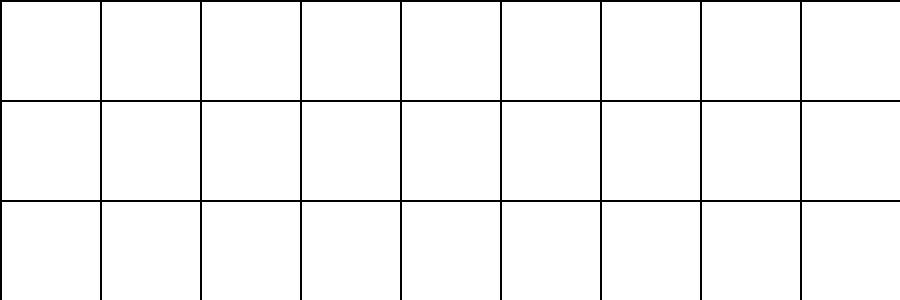
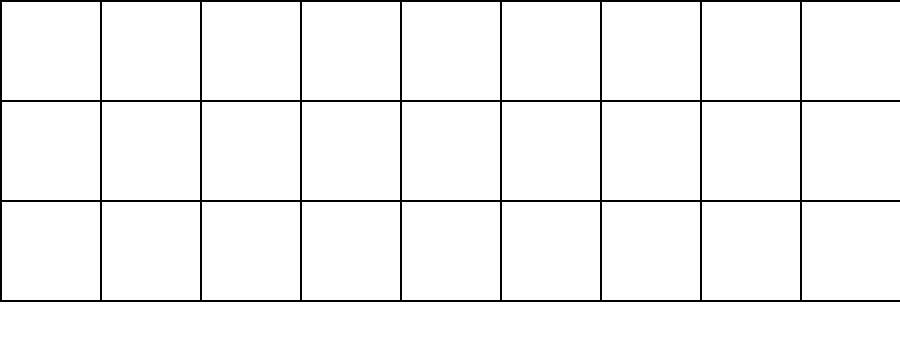
now the program generates a single image containing all the boards

diff --git a/src/GeneraTabelle.py b/src/GeneraTabelle.py
@@ -1,16 +1,22 @@
-from random import random, randint
+from random import randint
 from PIL import Image, ImageDraw, ImageFont
 import os
 import os.path
 import shutil
 import subprocess
+import time
+from datetime import datetime
 
 WIDTH = 900
 HEIGHT = 300
+OFFSET_Y = 50
+V_LINES_NUM = 9
+H_LINES_NUM = 3
 CELL_WIDTH = WIDTH/9
 CELL_HEIGHT = HEIGHT/3
-FONT_SIZE = 40
-IMG_OUT_NAME = "Tabella_"
+FONT_SIZE = 30
+SMALLER_FONT_SIZE = 20
+IMG_OUT_NAME = "Tabelle"
 OUT_PATH = f"{os.path.abspath(os.path.curdir)}{os.path.sep}images_out{os.path.sep}"
 
 def PrintTabella(tabella: list) -> None:
@@ -33,21 +39,189 @@ def PickNumber(lowerRange: int, upperRange: int, alreadyRolled: set) -> int:
 
 def main() -> None:
     '''Main function'''
+    playerName = input("Nome del giocatore: ")
 
-
-    num_to_generate = 0
+    # reading how many boards the user wants to buy
+    numToGenerate = 0
     while 1:
-        num_to_generate_input = input("Quante tabelle si vogliono generare?(min: 1, max: 9): ")
+        num_to_generate_input = input("Quante tabelle si vogliono comprare?(min: 1, max: 9): ")
         if len(num_to_generate_input) < 2 and ord(num_to_generate_input) >= 49 and ord(num_to_generate_input) <= 57:
-            num_to_generate = int(num_to_generate_input)
+            numToGenerate = int(num_to_generate_input)
             break
         else:
             print("Input non valido. Inserire un numero intero compreso tra 1 e 9.")
 
-    shutil.rmtree(OUT_PATH)
+    #reading the boards number
+    tabelle = []
+    for _ in range(numToGenerate):
+        n = 0
+        while 1:
+            gotError = False
+            userInput = input("Numero della cartella che si vuole acquistare: ")
+            try:
+                n = int(userInput)
+            except Exception:
+                # checking that the user inputted a number
+                print("Inserire un numero intero!")
+                gotError = True
+            if not gotError: 
+                # checking that the user inputted a number between 1 and 90
+                if n > 0 and n <= 90:
+                    if n in tabelle:
+                        print(f"Tabella #{n} già presa!")
+                    else:
+                        break
+                else:
+                    print("Inserire un numero intero compreso tra 1 e 90!")
+        tabelle.append(n)
+
+    today = datetime.now()
+    formattedToday = today.strftime("%d/%m/%Y %H:%M")
+
+    if(os.path.isdir(OUT_PATH)):
+        shutil.rmtree(OUT_PATH)
+
     os.mkdir(OUT_PATH)
 
-    for num in range(num_to_generate):
+    tabelleGenerate = []
+    for num in range(numToGenerate):
+        tabella = [[0 for _ in range(9)] for _ in range(3)]
+        alreadyRolled = set()
+        for i in range(3):
+            spots = [0 for _ in range(9)]
+            chosenSpots = set()
+            # generate the random spots in the current row
+            for _ in range(5):
+                while True:
+                    spot = randint(0, 8)
+                    if spot not in chosenSpots: break
+                spots[spot] = 1
+                chosenSpots.add(spot)
+            
+            # if the spot is set with 1, pick the number to put in the tabella
+            if spots[0] == 1:
+                tabella[i][0] = PickNumber(1, 9, alreadyRolled)
+            if spots[1] == 1:
+                tabella[i][1] = PickNumber(10, 19, alreadyRolled)
+            if spots[2] == 1:
+                tabella[i][2] = PickNumber(20, 29, alreadyRolled)
+            if spots[3] == 1:
+                tabella[i][3] = PickNumber(30, 39, alreadyRolled)
+            if spots[4] == 1:
+                tabella[i][4] = PickNumber(40, 49, alreadyRolled)
+            if spots[5] == 1:
+                tabella[i][5] = PickNumber(50, 59, alreadyRolled)
+            if spots[6] == 1:
+                tabella[i][6] = PickNumber(60, 69, alreadyRolled)
+            if spots[7] == 1:
+                tabella[i][7] = PickNumber(70, 79, alreadyRolled)
+            if spots[8] == 1:
+                tabella[i][8] = PickNumber(80, 90, alreadyRolled)
+
+        # check if the board number is in the board
+        found = False
+        col = tabelle[num] // 10
+        for i in range(3):
+            if col == 9: col = col - 1
+            if tabella[i][col] == tabelle[num]:
+                found = True
+                break
+        
+        # if it's not in the board, forcefully add it
+        if not found:
+            randRow = randint(0, 2)
+            tabella[randRow][col] = tabelle[num]
+            if tabella[randRow].count(0) != 4:
+                while 1:
+                    randElem = randint(0, 8)
+                    if tabella[randRow][randElem] != tabelle[num] and tabella[randRow][randElem] != 0:
+                        tabella[randRow][randElem] = 0
+                        break
+
+        PrintTabella(tabella)
+        tabelleGenerate.append(tabella)
+        
+    DrawTabelle(tabelleGenerate, tabelle, playerName, formattedToday)
+
+    print(f"L'immagine generata si trova in: {OUT_PATH}")
+    print("Apertura del percorso dove sono presenti i file in corso...")
+    time.sleep(0.5)
+    subprocess.Popen(r'explorer /open,"'+ OUT_PATH +'"')
+    print("Fine.")
+
+def DrawTabelle(tabelleGenerate: list[list[int]], tabelle: list[int], playerName: str, timeDate: str) -> None:
+    arial_30 = ImageFont.truetype("arial.ttf", FONT_SIZE)
+    arial_20 = ImageFont.truetype("arial.ttf", SMALLER_FONT_SIZE)
+    numTabelle = len(tabelleGenerate)
+
+    imOut = Image.new(mode="RGB", size=(WIDTH, (HEIGHT+OFFSET_Y)*numTabelle), color=(255,255,255))
+    imBoard = Image.open("Board.jpg")
+
+    # pasting the board inside the new image a number of times equal to the number of boards
+    for i in range(len(tabelleGenerate)):
+        imOut.paste(imBoard, (0, (HEIGHT+OFFSET_Y)*i))
+
+    wr = ImageDraw.Draw(imOut)
+    for n, tabella in enumerate(tabelleGenerate):
+        for i in range(len(tabella)):
+            for j in range(len(tabella[0])):
+                if tabella[i][j] != 0:
+                    coord = coord = (j*CELL_WIDTH + (CELL_WIDTH/2)-(FONT_SIZE/2), (i*CELL_HEIGHT + (CELL_HEIGHT/2)-(FONT_SIZE/2)-(OFFSET_Y/2))+n*(HEIGHT+OFFSET_Y))
+                    num = str(tabella[i][j])
+                    if len(num) == 1: num = f" {num}"
+                    wr.text(coord, num, fill=(0,0,0), font=arial_30)
+
+        wr.text((10, (HEIGHT+(OFFSET_Y/2)-(SMALLER_FONT_SIZE/2))+n*(HEIGHT+OFFSET_Y)), \
+                f"Tabella #{tabelle[n]} {timeDate} ({playerName})", \
+                fill=(0,0,0), \
+                font=arial_20)
+
+    imOut.save(f"{OUT_PATH}{playerName}_{IMG_OUT_NAME}.jpg")
+
+def mainOld() -> None:
+    '''Main function'''
+    playerName = input("Nome del giocatore: ")
+
+    # reading how many boards the user wants to buy
+    numToGenerate = 0
+    while 1:
+        num_to_generate_input = input("Quante tabelle si vogliono comprare?(min: 1, max: 9): ")
+        if len(num_to_generate_input) < 2 and ord(num_to_generate_input) >= 49 and ord(num_to_generate_input) <= 57:
+            numToGenerate = int(num_to_generate_input)
+            break
+        else:
+            print("Input non valido. Inserire un numero intero compreso tra 1 e 9.")
+
+    #reading the boards number
+    tabelle = []
+    for _ in range(numToGenerate):
+        n = 0
+        while 1:
+            gotError = False
+            userInput = input("Numero della cartella che si vuole acquistare: ")
+            try:
+                n = int(userInput)
+            except Exception:
+                # checking that the user inputted a number
+                print("Inserire un numero intero!")
+                gotError = True
+            if not gotError: 
+                # checking that the user inputted a number between 1 and 90
+                if n > 0 and n <= 90:
+                    break
+                else:
+                    print("Inserire un numero intero compreso tra 1 e 90!")
+        tabelle.append(n)
+
+    today = datetime.now()
+    formattedToday = today.strftime("%d/%m/%Y %H:%M")
+
+    if os.path.isdir(OUT_PATH):
+        shutil.rmtree(OUT_PATH)
+    
+    os.mkdir(OUT_PATH)
+
+    for num in range(numToGenerate):
         tabella = [[0 for _ in range(9)] for _ in range(3)]
         alreadyRolled = set()
         for i in range(3):
@@ -82,40 +256,52 @@ def main() -> None:
                 tabella[i][8] = PickNumber(80, 90, alreadyRolled)
 
         PrintTabella(tabella)
-        DrawOnImage(tabella, num+1)
+        DrawOnImage(tabella, tabelle[num], playerName, formattedToday)
 
     print(f"I file generati sono presenti in: {OUT_PATH}")
     print("Apertura del percorso dove sono presenti i file in corso...")
+    time.sleep(0.5)
     subprocess.Popen(r'explorer /open,"'+ OUT_PATH +'"')
     print("Fine.")
 
-def DrawOnImage(tabella: list[list[int]], tabellaNumber: int) -> None:
-    
+def DrawOnImage(tabella: list[list[int]], tabellaNumber: int, playerName: str, timeDate: str) -> None:    
     im = Image.open("Board.jpg")
     wr = ImageDraw.Draw(im)
+    arial_30 = ImageFont.truetype("arial.ttf", FONT_SIZE)
+    arial_20 = ImageFont.truetype("arial.ttf", SMALLER_FONT_SIZE)
 
+    # write the numbers on the image
     for i in range(len(tabella)):
         for j in range(len(tabella[0])):
             if tabella[i][j] != 0:
-                coord = (j*CELL_WIDTH + (CELL_WIDTH/2)-FONT_SIZE, i*CELL_HEIGHT + (CELL_HEIGHT/2)-FONT_SIZE)
-                wr.text(coord, str(tabella[i][j]), fill=(0,0,0), font=ImageFont.truetype("arial.ttf", 30))
+                coord = (j*CELL_WIDTH + (CELL_WIDTH/2)-(FONT_SIZE/2), i*CELL_HEIGHT + (CELL_HEIGHT/2)-(FONT_SIZE/2)-(OFFSET_Y/2))
+                num = str(tabella[i][j])
+                if len(num) == 1: num = f" {num}"
+                wr.text(coord, num, fill=(0,0,0), font=arial_30)
 
-    im.save(f"{OUT_PATH}{IMG_OUT_NAME}{tabellaNumber}.jpg")
+    # writing the board number, time and player name
+    wr.text((10, HEIGHT+(OFFSET_Y/2)-(SMALLER_FONT_SIZE/2)), \
+            f"Tabella #{tabellaNumber} {timeDate} ({playerName})", \
+            fill=(0,0,0), \
+            font=arial_20)
 
+    # saving the image
+    im.save(f"{OUT_PATH}{playerName}_{IMG_OUT_NAME}{tabellaNumber}.jpg")
 
 def generateBoard():
-    im = Image.new(mode="RGB", size=(WIDTH, HEIGHT), color=(255,255,255))
+    im = Image.new(mode="RGB", size=(WIDTH, HEIGHT+OFFSET_Y), color=(255,255,255))
     draw = ImageDraw.Draw(im)
 
     # draw vertical lines
-    for i in range(0, WIDTH, int(WIDTH/9)):
+    for i in range(0, int(WIDTH + WIDTH/V_LINES_NUM), int(WIDTH/V_LINES_NUM)):
         draw.line([(i, 0), (i, HEIGHT)], width=2, fill=(0,0,0))
 
     # draw horizontal lines
-    for i in range(0, HEIGHT, int(HEIGHT/3)):
+    for i in range(0, int(HEIGHT + HEIGHT/H_LINES_NUM), int(HEIGHT/H_LINES_NUM)):
         draw.line([(0, i), (WIDTH, i)], width=2, fill=(0,0,0))
 
-    im.save("Board.jpg")
+    im.save("Board3.jpg")
 
 if __name__ == "__main__":
     main()
+    # generateBoard()
